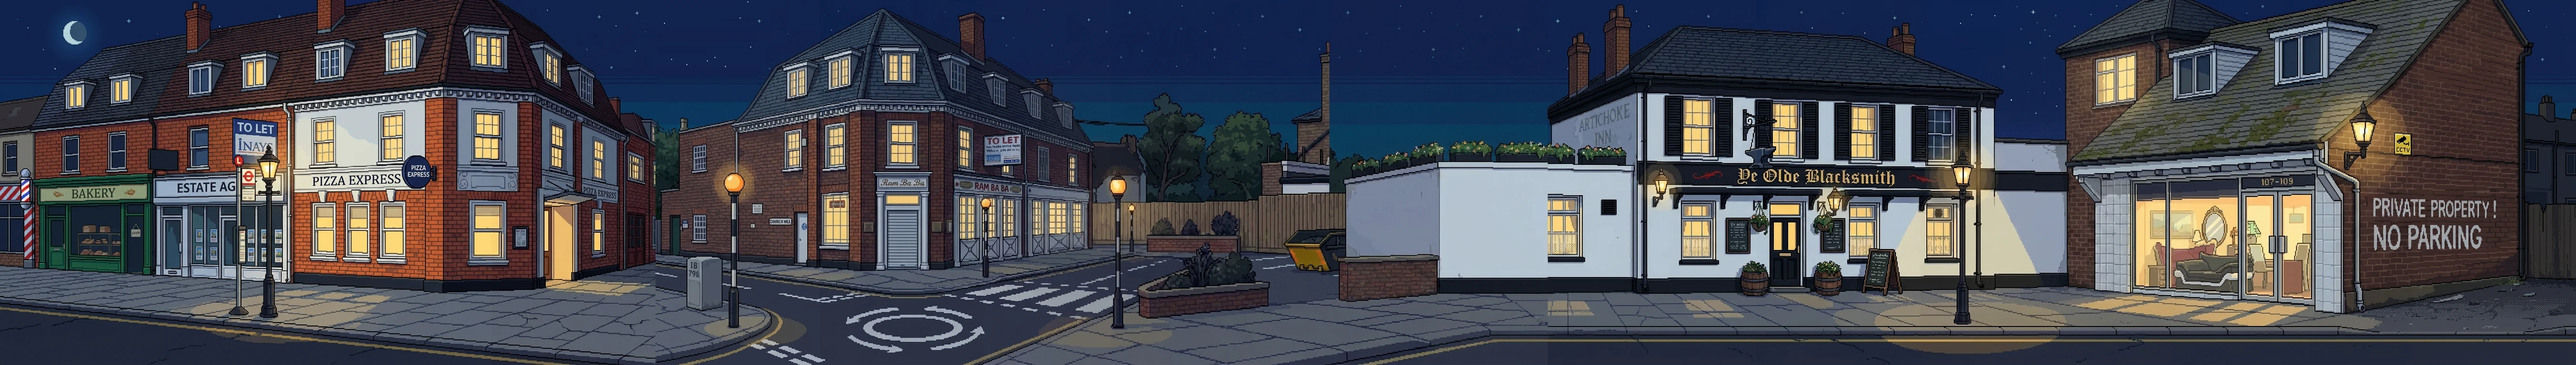
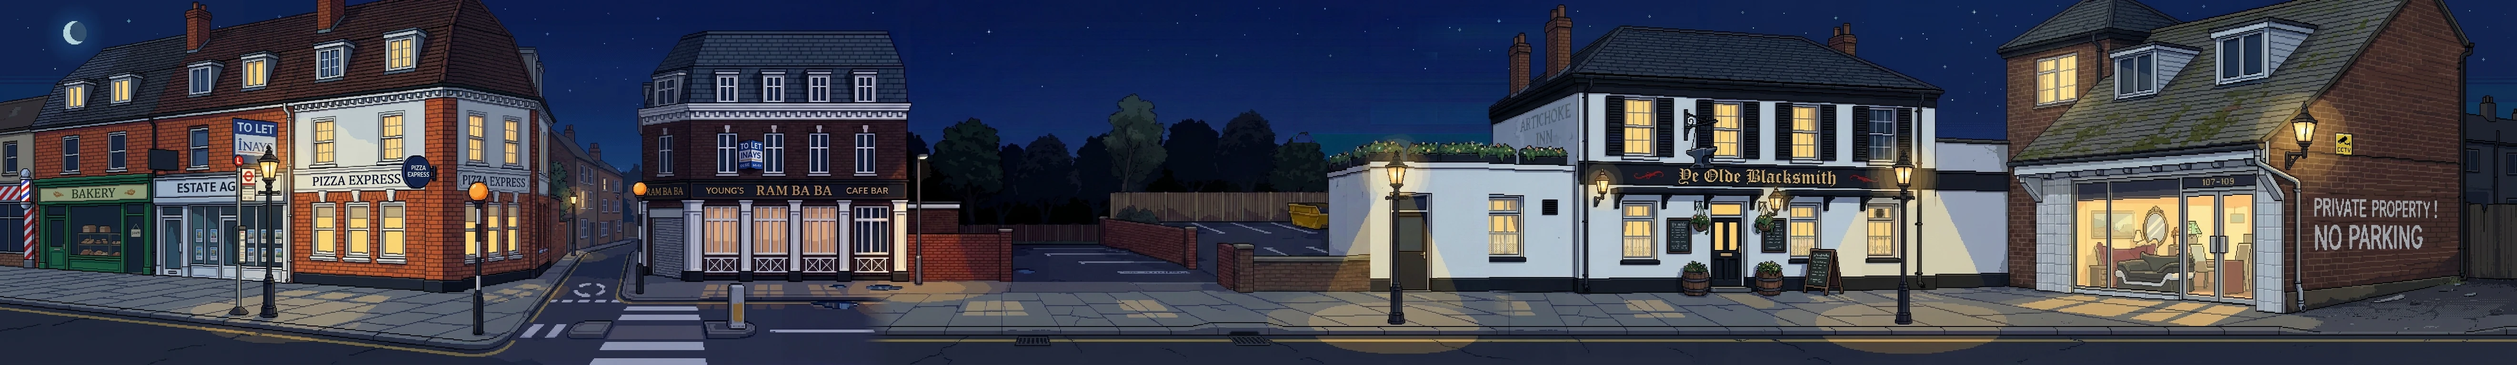
Orpington 2001: fix the stretch from Ram Ba Ba to the Blacksmiths (road runs straight on, no fence or flower beds)
Claude-Session: https://claude.ai/code/session_01G9hG8tJyx3ogR5TifD2zQK

diff --git a/tools/v72/orp_strip.py b/tools/v72/orp_strip.py
@@ -1,0 +1,43 @@
+"""Stitch the Orpington 2001 High Street strip from the Meshy panels: python3 tools/v72/orp_strip.py <panel dir> <out.png> [x0:x1:y1,...]
+
+Panels are pasted in order at their raw x (later ones on top), then the ground repaint g1 is laid over with feathered
+sides, then the sky is evened out: each sky pixel (one close to its row's sky colour) is moved onto one shared gradient
+boxes given as x0:x1:y1 (moons, sky joins) are filled
+with a blend of the sky either side."""
+import sys
+import numpy as np
+from PIL import Image
+P, OUT = sys.argv[1], sys.argv[2]
+ITEMS = [('p0', 0), ('p1n', 1032), ('b6', 512), ('p3n', 2877), ('b3', 2209), ('b7', 1642), ('b8', 1912), ('p4', 3909), ('b4', 3565)]
+W = 3909 + 1376
+def load(n):
+    for ext in ('_raw.png', '.webp'):
+        try: return Image.open(f'{P}/{n}{ext}').convert('RGB')
+        except FileNotFoundError: pass
+    raise SystemExit('missing ' + n)
+im = Image.new('RGB', (W, 768))
+for n, x in ITEMS: im.paste(load(n), (x, 0))
+a = np.asarray(im).astype(float)
+# ground repaint over Ram Ba Ba to the Blacksmiths, feathered 60 px each side
+g = np.asarray(load('g1')).astype(float); gx = 1812; f = 60
+w = np.ones(1376); w[:f] = np.linspace(0, 1, f); w[-f:] = np.linspace(1, 0, f)
+a[:, gx:gx + 1376] = a[:, gx:gx + 1376] * (1 - w[None, :, None]) + g * w[None, :, None]
+# sky joins: from a cut at x c, shift the sky on its right (pixels close to that side's sky colour, stars left alone) onto the
+# left side's sky colours, easing back to its own colours by x e. Sky colours per row are medians over 40 px beside the cut.
+SHIFTS = [(2715, 3700, 300), (3015, 3700, 300)]   # (cut x, ease end x, rows)
+for c, e, rows in SHIFTS:
+    L = np.median(a[:rows, c - 44:c - 4], 1); R = np.median(a[:rows, c + 4:c + 44], 1)
+    for x in range(c, e):
+        t = (x - c) / (e - c); col = a[:rows, x]
+        sky = (np.abs(col - R).sum(1) < 45) & (col.sum(1) < 420)
+        a[:rows, x][sky] = col[sky] + ((L - R) * (1 - t))[sky]
+# sky: fill boxes (moons, a sky join) with a blend of the sky colours just left and right of each box, then a few stars
+FILLS = [tuple(map(int, b.split(':'))) for b in (sys.argv[3].split(',') if len(sys.argv) > 3 else [])]   # x0:x1:y1
+rng = np.random.default_rng(7)
+for xa, xb, y1 in FILLS:
+    L = np.median(a[:y1, xa - 16:xa], 1)[:, None]; R = np.median(a[:y1, xb:xb + 16], 1)[:, None]
+    t = np.linspace(0, 1, xb - xa)[None, :, None]; a[:y1, xa:xb] = L * (1 - t) + R * t
+    for _ in range((xb - xa) * y1 // 4000):
+        x = rng.integers(xa + 3, xb - 3); y = rng.integers(3, max(4, y1 - 20)); a[y:y + 2, x:x + 2] = [200, 210, 235]
+Image.fromarray(a.clip(0, 255).astype('uint8')).save(OUT)
+print('saved', OUT, W)

diff --git a/tools/v72/ground.py b/tools/v72/ground.py
@@ -1,0 +1,27 @@
+"""Repaint only the pavement and road along a stretch of the stitched Orpington strip, so a narrow pavement widens smoothly
+into a deep one (Meshy, 9 credits). python3 tools/v72/ground.py <strip.png> <x0> <name> <y_base> <kerb_left> <kerb_right> <xa> <xb>
+
+Takes the 1376 px from x0, replaces the rows below y_base with a flat guide (pavement grey down to a kerb line that runs
+at kerb_left until xa, slopes to kerb_right by xb, then flat; road below) and asks Meshy to keep everything above and paint
+the ground. Saves MESHY_WORK/orp01/<name>_raw.png; compose only its rows below y_base back in (orp_strip.py does)."""
+import os, subprocess, sys
+import numpy as np
+from PIL import Image, ImageFilter
+HERE = os.path.dirname(os.path.abspath(__file__)); V64 = os.path.join(HERE, '..', 'v64')
+D = os.path.join(os.environ.get('MESHY_WORK', '/tmp/meshy_work'), 'orp01')
+sp, x0, name, yb, kl, kr, xa, xb = sys.argv[1], *map(int, sys.argv[2:3]), sys.argv[3], *map(int, sys.argv[4:9])
+crop = Image.open(sp).convert('RGB').crop((x0, 0, x0 + 1376, 768)); a = np.asarray(crop).astype(float)
+pave = np.median(a[yb + 10:kr - 10, 1376 - 200:].reshape(-1, 3), 0); road = np.median(a[kr + 15:, 1376 - 200:].reshape(-1, 3), 0)
+g = a.copy()
+for x in range(1376):
+    k = kl if x < xa - x0 else kr if x > xb - x0 else kl + (kr - kl) * (x - (xa - x0)) / (xb - xa)
+    g[yb:int(k), x] = pave; g[int(k):int(k) + 6, x] = pave * 0.7; g[int(k) + 6:, x] = road
+gi = Image.fromarray(g.astype('uint8')); low = gi.crop((0, yb, 1376, 768)).filter(ImageFilter.GaussianBlur(3)); gi.paste(low, (0, yb))
+cp = os.path.join(D, name + '_canvas.png'); gi.save(cp)
+prompt = ("The first image is a wide pixel art background for a side-scrolling beat 'em up game: a night street in Orpington. Keep everything above the "
+          f"pavement exactly as it is, pixel for pixel. Repaint only the flat bottom part, the pavement and the road, following the flat colours there as a guide: "
+          "a grey paving slab pavement along the front of the buildings and the car park (with a dropped kerb at the car park entrance), whose kerb edge runs "
+          "where the guide shows (narrow on the left, gently widening, then wide and level), and the dark tarmac road below it with a yellow line along the kerb, "
+          "a few cracks and drain covers, lit softly by the street lamps. Same pixel art style, pixel size and night colours as the rest of the picture and the "
+          "second image. No people, no cars, nothing standing on the pavement or the road.")
+subprocess.run([sys.executable, os.path.join(V64, 'meshy_free.py'), 'orp01', name, prompt, cp + ',' + os.path.join(D, 'p3n_raw.png')], check=True)

diff --git a/tools/v72/img/orp01/LAYOUT.md b/tools/v72/img/orp01/LAYOUT.md
@@ -1,12 +1,15 @@
 # Orpington 2001 panels (raw Meshy, 1376x768)
 
-Street strip (street_strip.webp, 5408x768) is the panels pasted in this order at these raw x positions, later ones on top:
-p0@0, p1@1032, p2@2064, b2@1720, p3n@3000, b3@2332, p4@4032, b4@3688. Then the second and third moons are painted out
-(sky filled smoothly between median edge colours over x 1380-1590 y 0-175 and x 4100-4210 y 0-120, with a few stars).
+Street strip (street_strip.webp, 5285x768) is built by `python3 tools/v72/orp_strip.py tools/v72/img/orp01 <out.png> 2985:3050:110,3995:4070:110`:
+panels pasted at raw x in this order, later on top: p0@0, p1n@1032, b6@512, p3n@2877, b3@2209, b7@1642, b8@1912, p4@3909, b4@3565;
+then g1 (pavement and road repainted so Ram Ba Ba's narrow pavement widens into the pub's) over x 1812 to 3188, feathered 60 px;
+then the sky eased across two joins (x 2715 and 3015) and the extra moons filled.
 
-- p0: Pizza Express corner and bus stop. p1: the mini roundabout and the Ram Ba Ba corner. p2: car park (its right end, an angled pub, is covered).
-- b2: bridge, Ram Ba Ba into the car park. b3: bridge, car park into the Blacksmiths wing. b4: bridge, the pub into the mirror shop.
-- p3n: Ye Olde Blacksmith, wing and front, flat on, ARTICHOKE INN ghost sign. p4: the mirror shop and the NO PARKING gable.
+- p0: Pizza Express corner and bus stop. b6: the Church Hill junction between Pizza Express and Ram Ba Ba (Belisha beacons, zebra, roundabout markings).
+- p1n: Ram Ba Ba flat on (Young's, RAM BA BA, CAFE BAR, roller shutter, TO LET board), then the car park behind its low wall.
+- b7, b8: the car park into the Blacksmiths' wing. g1: the ground along that stretch, plus a street lamp by the wing.
+- p3n: Ye Olde Blacksmith, wing and front, flat on, ARTICHOKE INN ghost sign. b3: the car park end and the wing. b4: the pub into the mirror shop. p4: the mirror shop and the NO PARKING gable.
+- 31 Oct, Tim's notes: the first version had the road running into a fence and flower beds across from Ram Ba Ba; p1, p2 and b2 were dropped for p1n, b6, b7, b8 and g1.
 
 Blacksmiths inside (pub_strip.webp): bi0@0 (front door, seating, fruit machines), bi1@1032 (the bar in the corner of the L, bell over it), bi2@2064 (pool room, fire exit).
 

diff --git a/ToDo.MD b/ToDo.MD
@@ -122,6 +122,7 @@ Real street order, left to right (the mirror shop is past the Blacksmiths, not b
 
 ### Backdrops (Meshy, kept true to the photos, same style as the other stages)
 - [x] Street strip: Pizza Express corner (dormers, white corner bay, blue roundel, TO LET board, barbers) to the roundabout, Ram Ba Ba (Young's fascia, roller shutter, Church Hill sign, X-pattern window rails, the 2nd floor TO LET board, IB 798 bollard), the car park, the Blacksmiths' wing, Ye Olde Blacksmith (black shutters, anvil and smith bracket sign, brass lanterns, barrel planters, chalkboards, flagpole, planted roof on the wing) and the mirror shop's NO PARKING gable
+  - Fixed (31 Oct, Tim's notes): the road past Ram Ba Ba ran into a fence and there were flower beds in it. Ram Ba Ba repainted flat on, the Church Hill junction, the car park behind its wall, and the pavement widening smoothly to the pub; the road now runs straight through to the Blacksmiths
   - Done (first pass, 31 Oct): five panels and three bridges, one 5408 px strip with no visible joins, in `tools/v72/img/orp01/` (see LAYOUT.md there). Painted from the photos with `tools/v72/orp_panel.py`; joins with `tools/v72/bridge.py` (MIX=0 when a bridge keeps the cut)
 - [x] No St George bunting on the Blacksmiths (that was the 2002 World Cup); a faded "Artichoke Inn" ghost sign as an easter egg
   - Done: no bunting; the ghost sign is on the end wall
